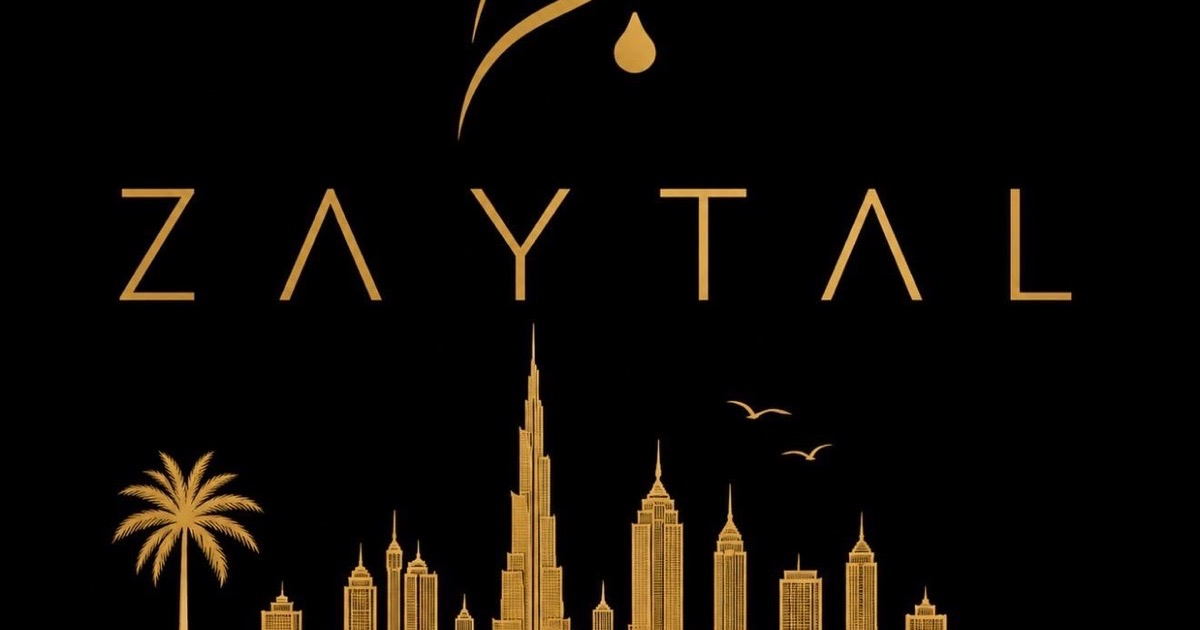
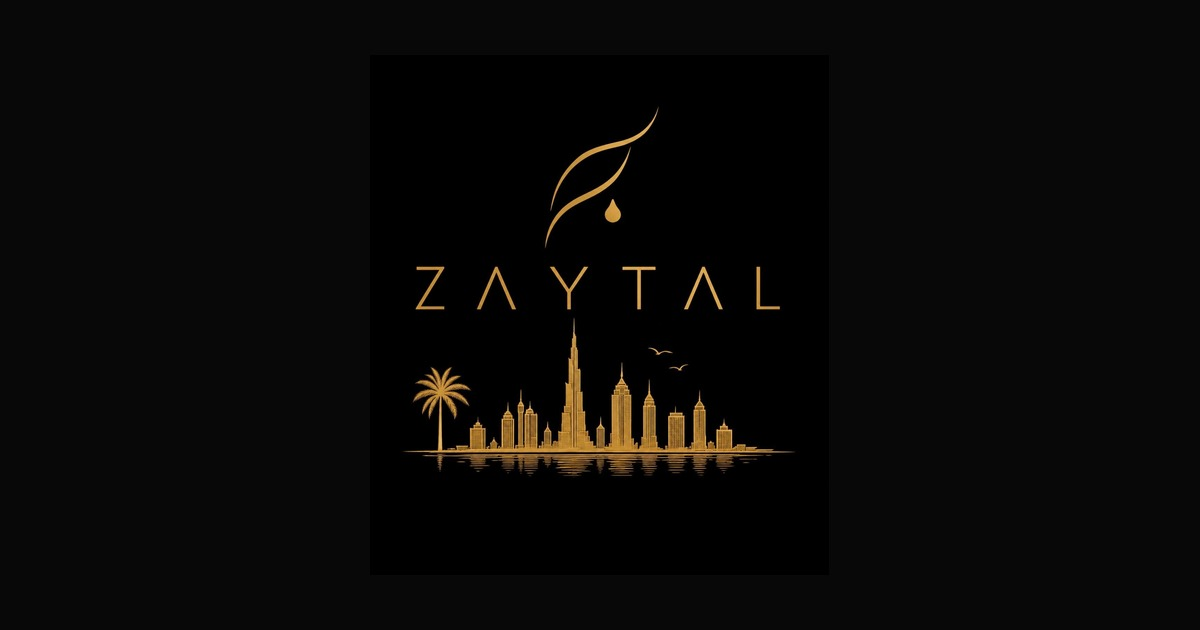
feat: renombrar Zayra→Zaytal en toda la app y og-image centrado sobre fondo

diff --git a/catalogo-zayra.html b/catalogo-zayra.html
@@ -7,30 +7,30 @@
   <meta name="mobile-web-app-capable" content="yes">
   <meta name="apple-mobile-web-app-capable" content="yes">
   <meta name="apple-mobile-web-app-status-bar-style" content="black-translucent">
-  <meta name="apple-mobile-web-app-title" content="ZAYRA">
+  <meta name="apple-mobile-web-app-title" content="ZAYTAL">
   <link rel="apple-touch-icon" href="./icons/icon-192.png">
   <link rel="icon" type="image/png" sizes="192x192" href="./icons/icon-192.png">
   <link rel="icon" type="image/png" sizes="512x512" href="./icons/icon-512.png">
   <!-- ═══ OG / WhatsApp Preview ═══ -->
-  <meta property="og:title" content="ZAYRA · Olive Essence — Premium Spanish Products">
+  <meta property="og:title" content="ZAYTAL · Olive Essence — Premium Spanish Products">
   <meta property="og:description" content="The finest gourmet and olive oil producers from Spain. Curated for the UAE market.">
-  <meta property="og:image" content="https://zayra-catalogo.vercel.app/og-image.jpg?v=9">
-  <meta property="og:image:secure_url" content="https://zayra-catalogo.vercel.app/og-image.jpg?v=9">
+  <meta property="og:image" content="https://zayra-catalogo.vercel.app/og-image.jpg?v=10">
+  <meta property="og:image:secure_url" content="https://zayra-catalogo.vercel.app/og-image.jpg?v=10">
   <meta property="og:image:type" content="image/jpeg">
   <meta property="og:image:width" content="1200">
   <meta property="og:image:height" content="630">
-  <meta property="og:image:alt" content="ZAYRA · Olive Essence">
+  <meta property="og:image:alt" content="ZAYTAL · Olive Essence">
   <meta property="og:url" content="https://zayra-catalogo.vercel.app/">
   <meta property="og:type" content="website">
-  <meta property="og:site_name" content="ZAYRA · Olive Essence">
+  <meta property="og:site_name" content="ZAYTAL · Olive Essence">
   <meta property="og:locale" content="en_US">
   <meta name="twitter:card" content="summary_large_image">
-  <meta name="twitter:title" content="ZAYRA · Olive Essence — Premium Spanish Products">
+  <meta name="twitter:title" content="ZAYTAL · Olive Essence — Premium Spanish Products">
   <meta name="twitter:description" content="The finest gourmet and olive oil producers from Spain. Curated for the UAE market.">
-  <meta name="twitter:image" content="https://zayra-catalogo.vercel.app/og-image.jpg?v=9">
+  <meta name="twitter:image" content="https://zayra-catalogo.vercel.app/og-image.jpg?v=10">
   <meta charset="UTF-8">
   <meta name="viewport" content="width=device-width, initial-scale=1, viewport-fit=cover.0, maximum-scale=1.0">
-  <title>ZAYRA · Olive Essence — Premium Spanish Products</title>
+  <title>ZAYTAL · Olive Essence — Premium Spanish Products</title>
 
   <!-- ═══ PRE-PAINT LOADER (inline para aparecer INSTANTÁNEAMENTE) ═══ -->
   <style>
@@ -1179,7 +1179,7 @@
 
 <!-- ═══ Pre-paint loader (visible al instante, antes que nada) ═══ -->
 <div id="zayra-preloader" aria-hidden="true">
-  <div class="zp-brand">ZAYRA</div>
+  <div class="zp-brand">ZAYTAL</div>
   <div class="zp-ring"></div>
   <div class="zp-text">Loading<span class="zp-dot">.</span><span class="zp-dot">.</span><span class="zp-dot">.</span></div>
 </div>
@@ -1209,9 +1209,9 @@
 
 <!-- ═══ PWA Install Banner (Android/Chrome) ═══ -->
 <div id="pwa-banner">
-  <div id="pwa-banner-icon"><img loading="lazy" decoding="async" src="./icons/icon-192.png" alt="ZAYRA"></div>
+  <div id="pwa-banner-icon"><img loading="lazy" decoding="async" src="./icons/icon-192.png" alt="ZAYTAL"></div>
   <div id="pwa-banner-text">
-    <strong>ZAYRA · Olive Essence</strong>
+    <strong>ZAYTAL · Olive Essence</strong>
     <span>Add to your home screen</span>
   </div>
   <button id="pwa-banner-install">Install</button>
@@ -1221,7 +1221,7 @@
 <!-- ═══ PWA Install Tip (iOS Safari) ═══ -->
 <div id="pwa-ios-tip">
   <button id="pwa-ios-tip-close">&#x2715;</button>
-  <p id="pwa-ios-title">Install ZAYRA</p>
+  <p id="pwa-ios-title">Install ZAYTAL</p>
   <div id="pwa-ios-steps">
     <div class="ios-step">
       <div class="ios-step-icon">📱</div>
@@ -1246,7 +1246,7 @@
 <!-- ===== SPLASH ===== -->
 <div id="splash" onclick="enterApp()" style="cursor:pointer;">
   <div class="splash-logo">
-    <img src="./images/zayra-logo.jpg" alt="ZAYRA" style="width:min(420px,70vw);height:min(420px,70vw);object-fit:contain;margin-bottom:0" loading="lazy" decoding="async">
+    <img src="./images/zayra-logo.jpg" alt="ZAYTAL" style="width:min(420px,70vw);height:min(420px,70vw);object-fit:contain;margin-bottom:0" loading="lazy" decoding="async">
     <div class="splash-enter">
       <button class="btn-enter" id="btn-enter-main" onclick="enterApp()" style="cursor:pointer;-webkit-tap-highlight-color:rgba(201,168,76,.3);touch-action:manipulation;min-height:52px;min-width:220px;"><span>Explore the Collection</span></button>
     </div>
@@ -1259,7 +1259,7 @@
   <!-- Header -->
   <div id="header">
     <a class="header-logo" onclick="showHome()" href="#">
-      <img src="./images/zayra-logo.jpg" alt="ZAYRA" style="height:78px;width:auto;object-fit:contain" loading="lazy" decoding="async"></a>
+      <img src="./images/zayra-logo.jpg" alt="ZAYTAL" style="height:78px;width:auto;object-fit:contain" loading="lazy" decoding="async"></a>
 
     <div class="scroll-wrap" id="nav-wrap">
       <nav class="header-nav" id="header-nav-inner">

diff --git a/service-worker.js b/service-worker.js
@@ -2,7 +2,7 @@
 // Estrategia: Cache-First con actualización en background
 // Cada deploy nuevo cambia CACHE_VERSION → fuerza actualización automática
 
-const CACHE_VERSION = 'zayra-v15-fixes';
+const CACHE_VERSION = 'zayra-v16-zaytal';
 const CACHE_ASSETS = [
   './catalogo-zayra.html',
   './manifest.json',
